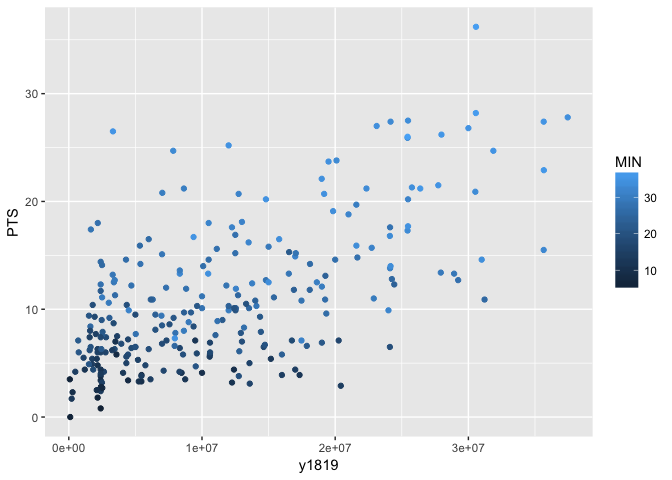
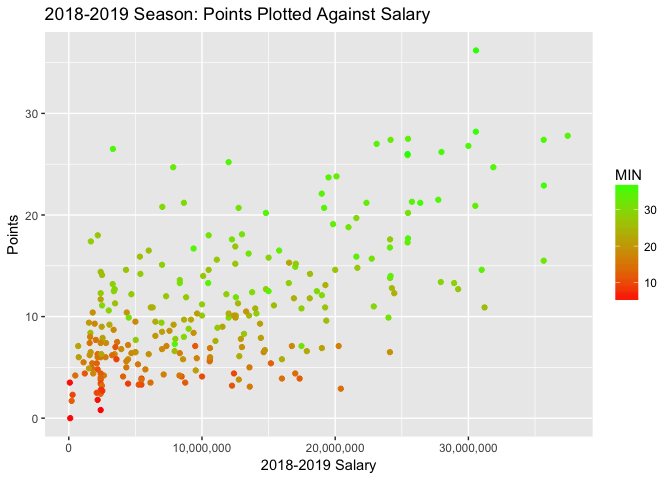
fixed double graph

diff --git a/README.md b/README.md
@@ -113,15 +113,10 @@ require(ggplot2)
 ``` r
 p <- ggplot(data = data1819, aes(x = y1819, y = PTS, colour = MIN)) +
   geom_point()
+p <- p + scale_x_continuous(labels = comma) + xlab("2018-2019 Salary") + ylab("Points") + ggtitle("2018-2019 Season: Points Plotted Against Salary") + scale_color_gradient(low="red", high="green")
 p
 ```
 
 ![](Sports_Analytics_files/figure-markdown_github/unnamed-chunk-6-1.png)
-
-``` r
-p + scale_x_continuous(labels = comma) + xlab("2018-2019 Salary") + ylab("Points") + ggtitle("2018-2019 Season: Points Plotted Against Salary") + scale_color_gradient(low="red", high="green")
-```
-
-![](Sports_Analytics_files/figure-markdown_github/unnamed-chunk-6-2.png)
 
 Interesting. We see that
